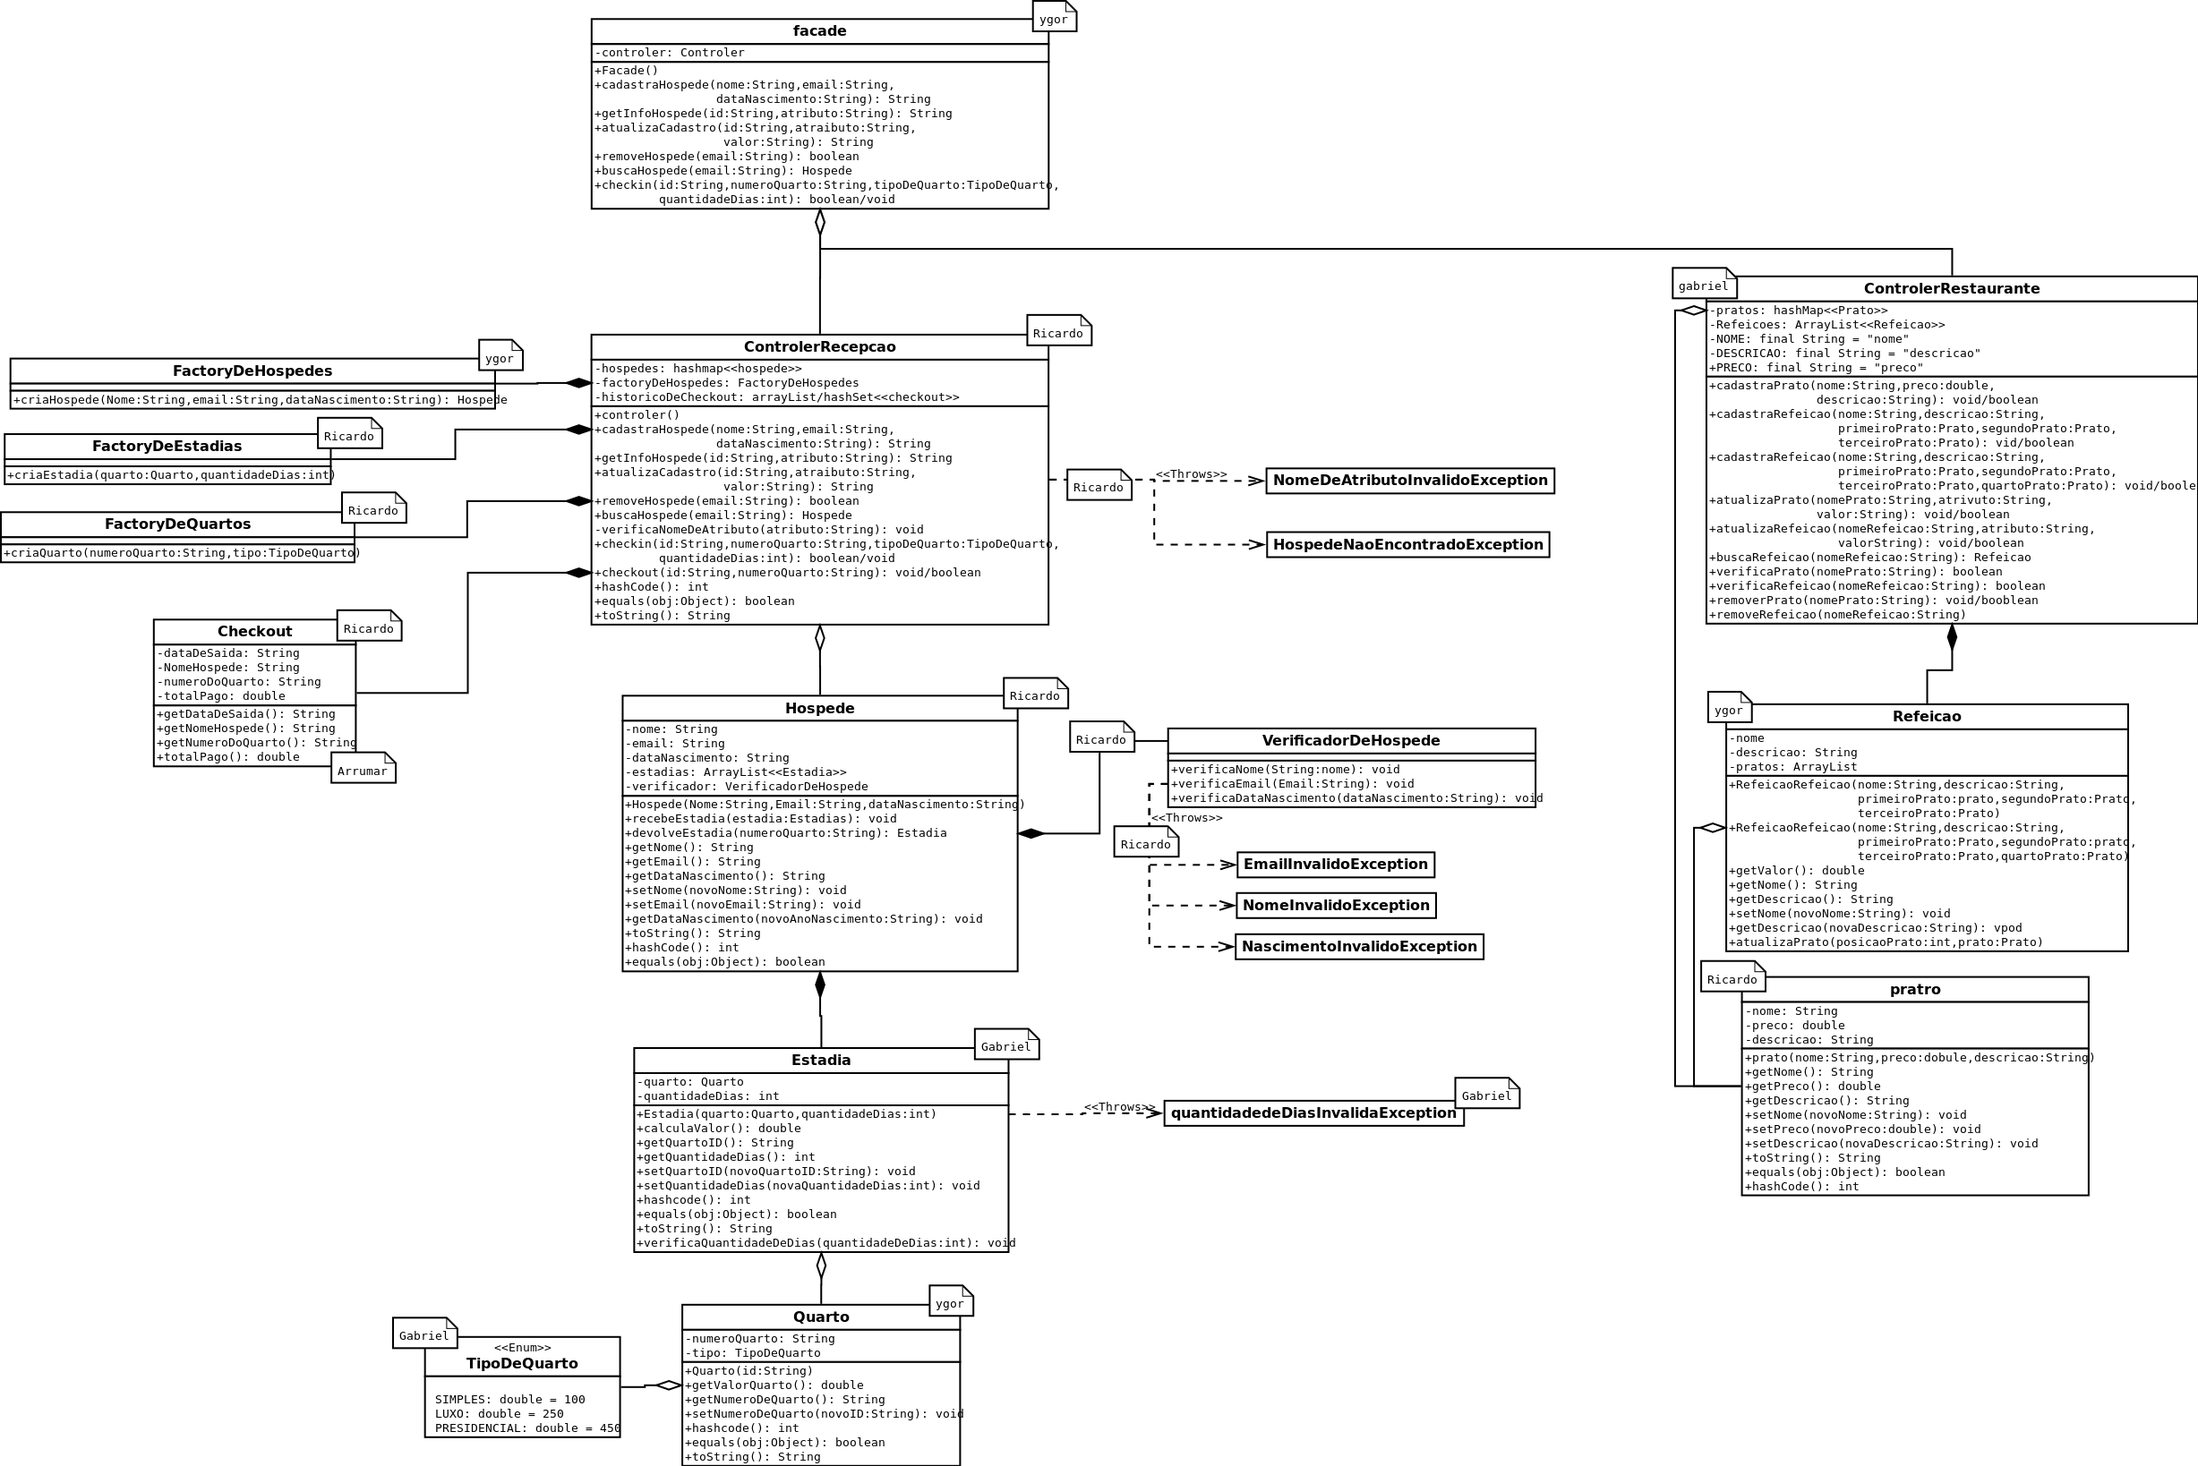
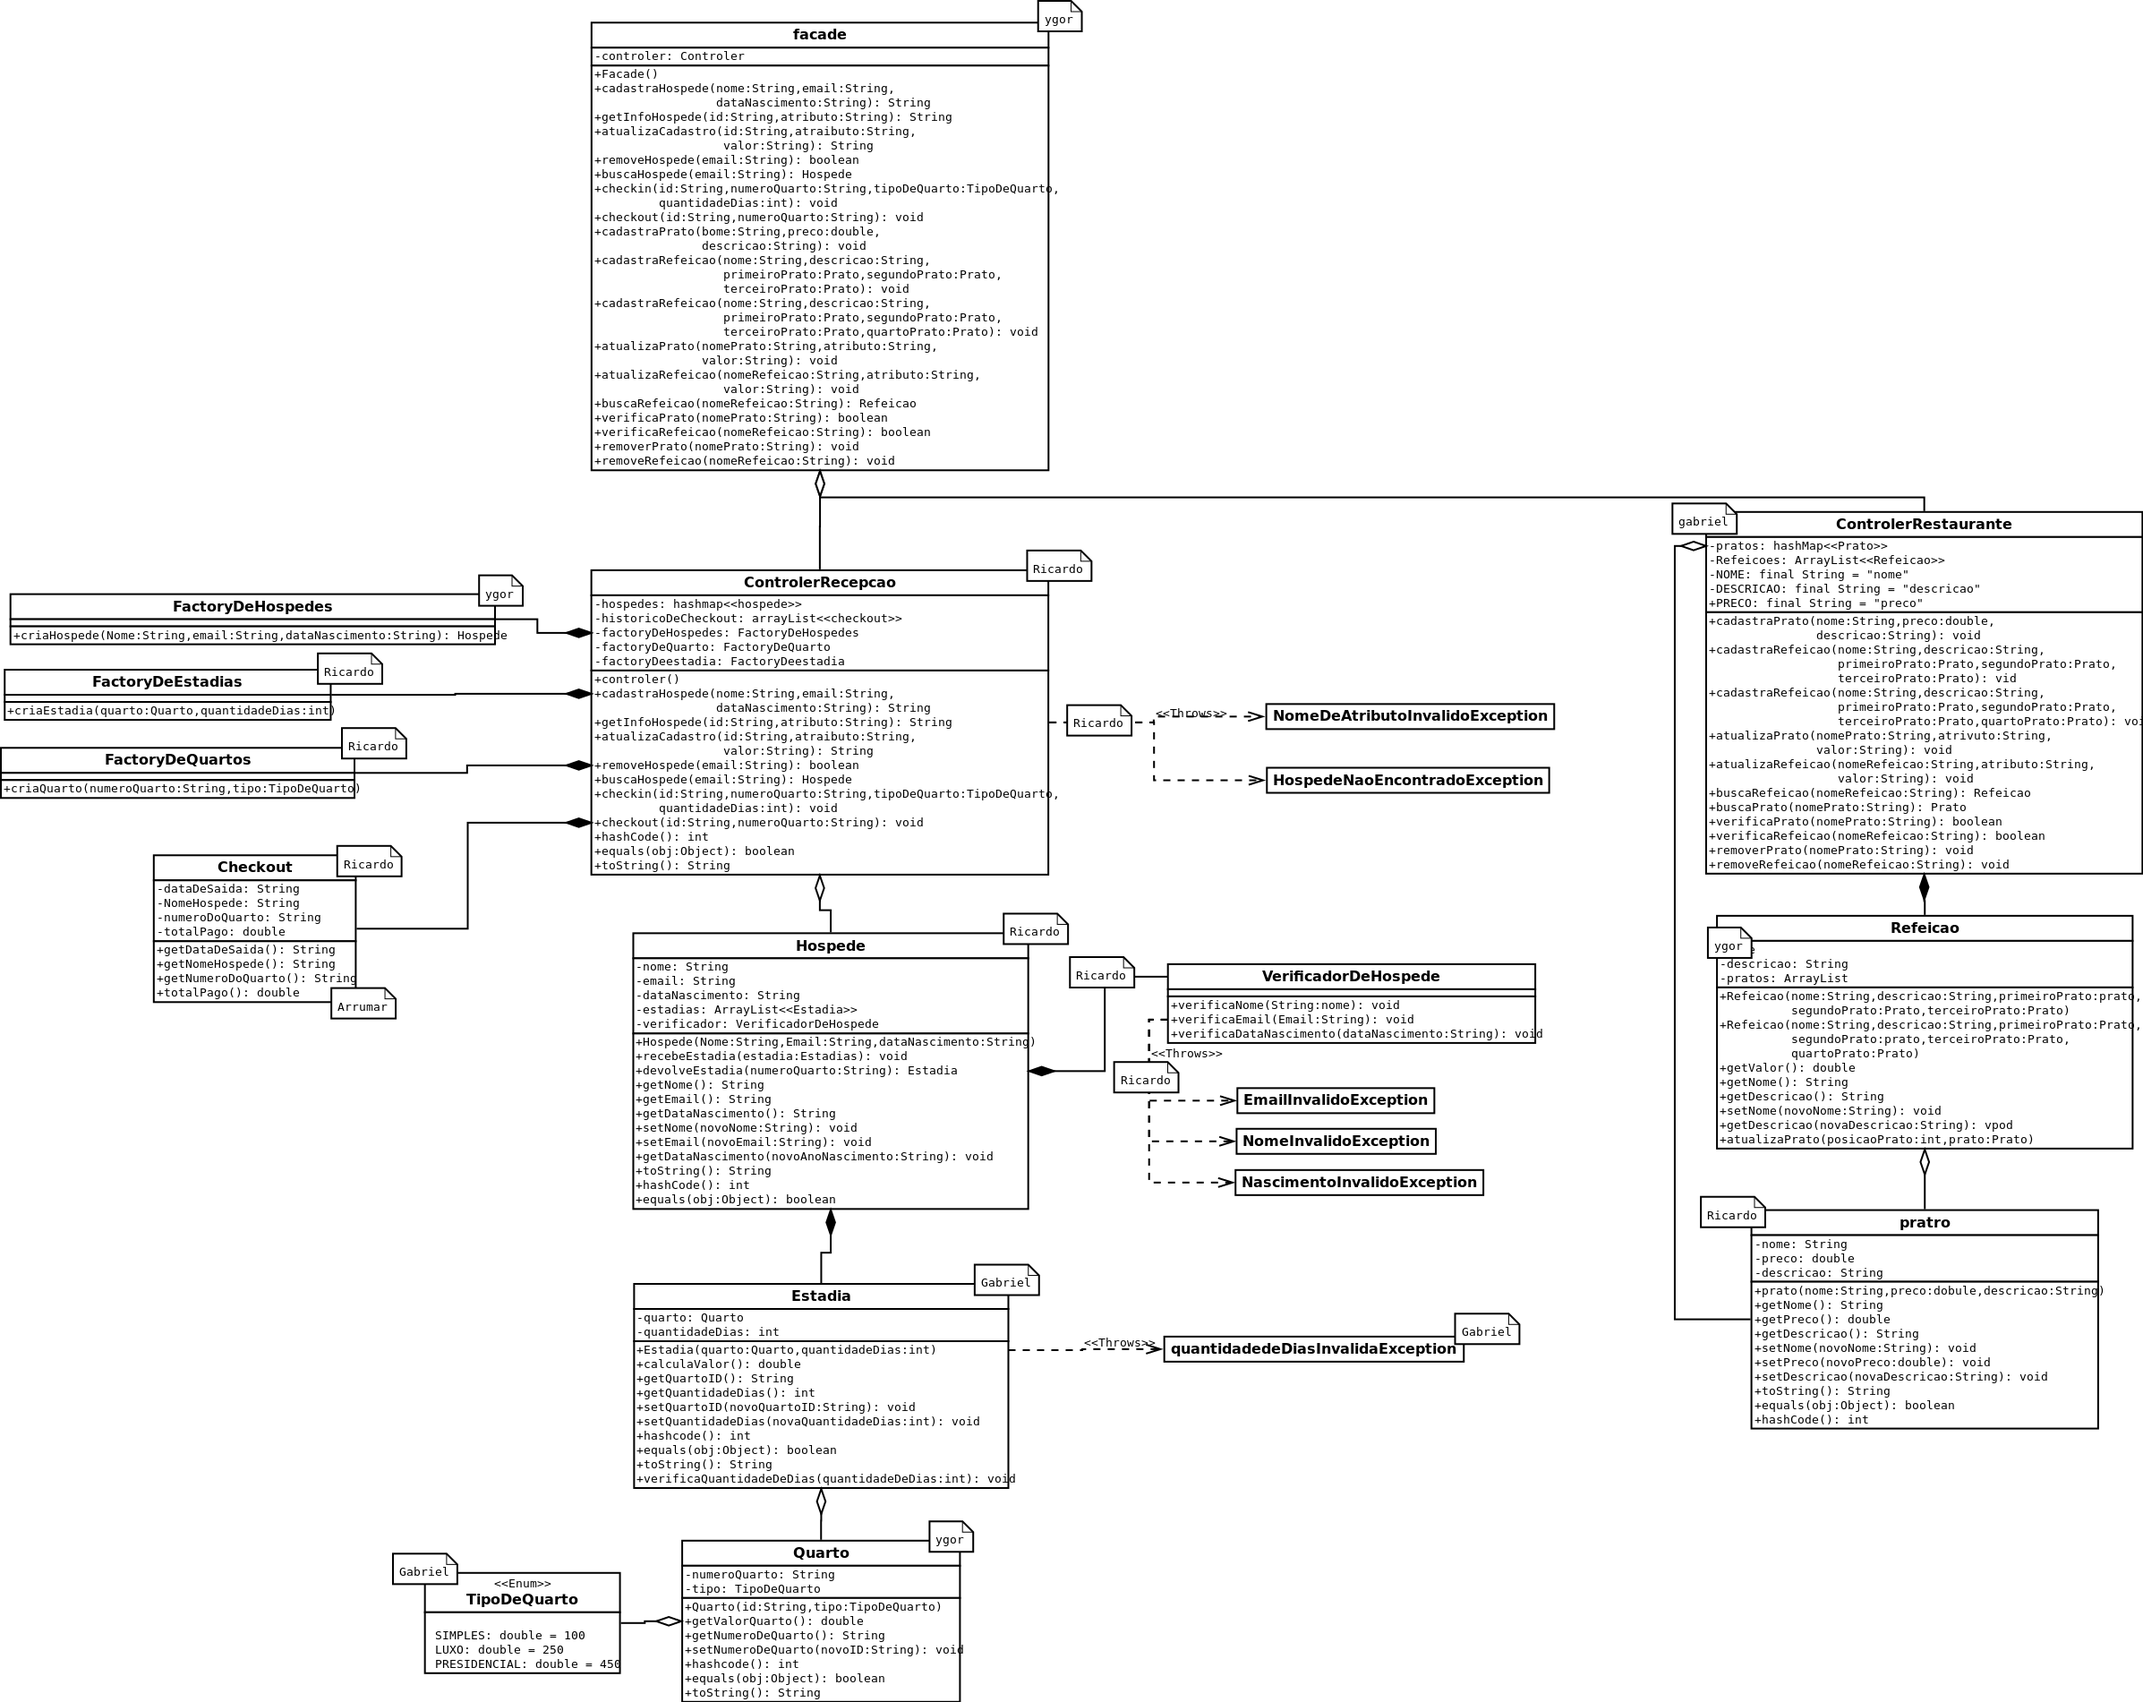
Diagrama, ControlerRestaurante, e ControlerRestauranteTest

diff --git a/testsrc/componentes/ControlerRestauranteTest.java b/testsrc/componentes/ControlerRestauranteTest.java
@@ -53,10 +53,9 @@ public class ControlerRestauranteTest {
 
 	@Test
 	public void testAtualizaPrato() throws Exception {
-		restaurante.atualizaPrato("burger1", "preco", "12.00");
-		if (!(burger1.getPreco()==12.0)){
-			fail("A atualizacao do preco deveria ter mudado para 12.00");
-		}
+		restaurante.cadastraPrato("Salada Bomba", 1.00, "Salada de frutas e verduras");
+		restaurante.atualizaPrato("Salada Bomba","preco", "666.0");
+		assertEquals(666.0, restaurante.buscaPrato("Salada Bomba").getPreco(), 0);
 	}
 
 	@Test
@@ -76,22 +75,27 @@ public class ControlerRestauranteTest {
 	@Test
 	public void testVerificaPrato() throws Exception {
 		restaurante.cadastraPrato("MilkGalinha", 24.00, "Delicioso MilkShake sabor Galinha Caipira");
-		restaurante.verificaPrato("MilkGalinha");
+		assertEquals(true, restaurante.verificaPrato("MilkGalinha"));
 	}
 
 	@Test
-	public void testVerificaRefeicao() {
-		fail("Not yet implemented");
+	public void testVerificaRefeicao() throws Exception {
+		restaurante.cadastraRefeicao("amburgers maravilhosos", "Amburgers tipo 2, eh massa", burger2, burger2, burger2);
+		assertEquals(true, restaurante.verificaRefeicao("amburgers maravilhosos"));
 	}
 
 	@Test
-	public void testRemovePrato() {
-		fail("Not yet implemented");
+	public void testRemovePrato() throws Exception {
+		restaurante.cadastraPrato("Diamante Negro", 6.00, "Chocolate bom");
+		restaurante.removePrato("Diamante Negro");
+		assertEquals(null, restaurante.buscaPrato("Diamante Negro"));
 	}
 
 	@Test
-	public void testRemoveRefeicao() {
-		fail("Not yet implemented");
+	public void testRemoveRefeicao() throws Exception {
+		restaurante.cadastraRefeicao("Divino's Burger", "Amburgers tipo 2, eh massa", burger2, burger2, burger2);
+		restaurante.removeRefeicao("Divino's Burger");
+		assertEquals(null, restaurante.buscaPrato("Divino's Burger"));
 	}
 
 }

diff --git a/src/componentes/ControlerRestaurante.java b/src/componentes/ControlerRestaurante.java
@@ -95,6 +95,10 @@ public class ControlerRestaurante {
 		return null;
 	}
 	
+	public Prato buscaPrato(String nomePrato){
+		return pratos.get(nomePrato);
+	}
+	
 	public boolean verificaPrato(String nomePrato){
 		if (pratos.get(nomePrato)==null){
 			return false;
